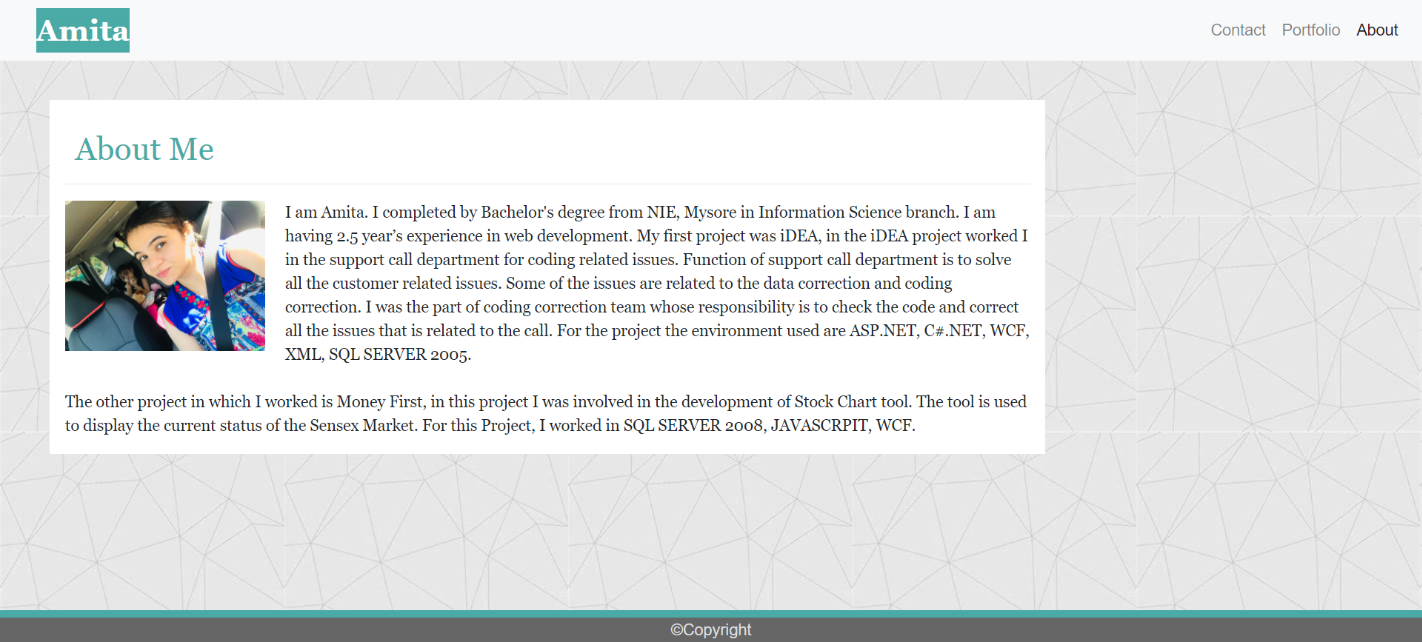
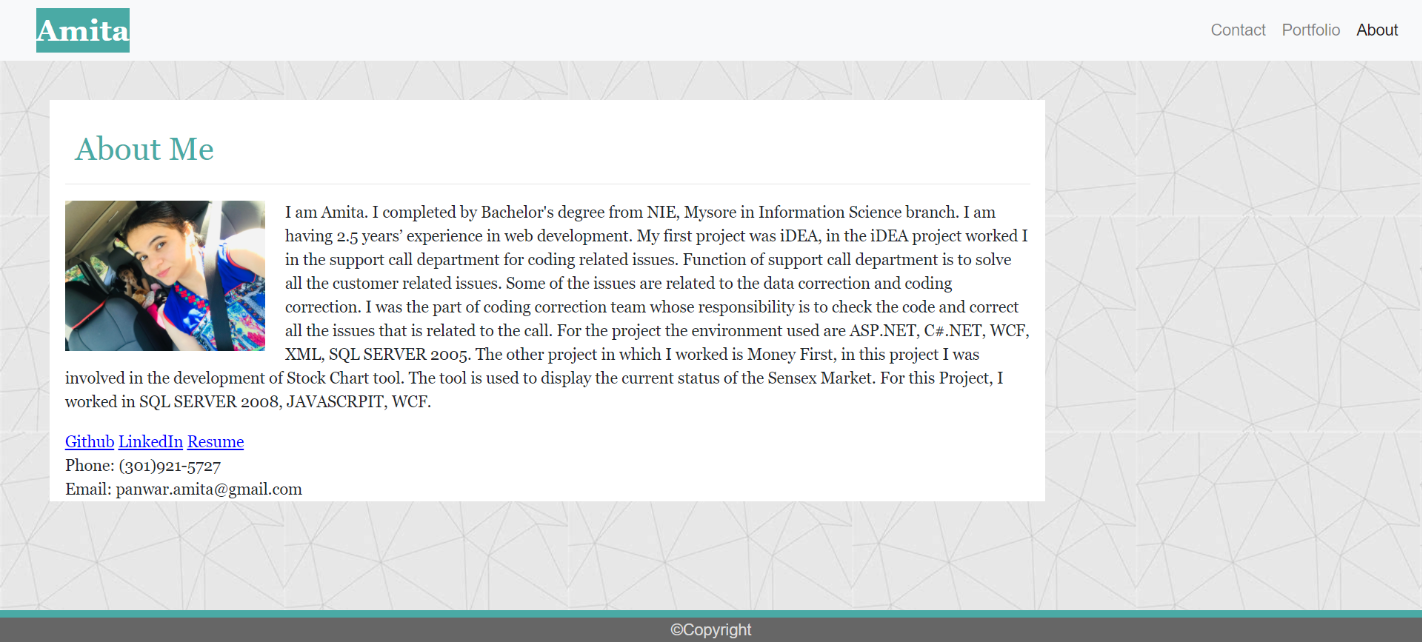
updated the resume

Changed region(s): [[0.0309, 0.5296, 0.7426, 0.7788]]

diff --git a/index.html b/index.html
@@ -64,20 +64,10 @@
                 <!--introduction to the person-->
                 <img src="asset/images/profile_pic.jpg" class="Profile_pic" alt="Profile photo">
                 <p>
-                    I am Amita. I completed by Bachelor's degree from NIE, Mysore in Information Science
-                    branch. I am having 2.5 year’s experience in web development. My first project was
-                    iDEA, in the iDEA project worked I in the support call department for coding related
-                    issues. Function of support call department is to solve all the customer related
-                    issues. Some of the issues are related to the data correction and coding correction.
-                    I was the part of coding correction team whose responsibility is to check the code
-                    and correct all the issues that is related to the call. For the project the
-                    environment used are ASP.NET, C#.NET, WCF, XML, SQL SERVER 2005.
-                    <br>
-                    <br>
-                    The other project in which I worked is Money First, in this project I
-                    was involved in the development of Stock Chart tool. The tool is used to display the
-                    current status of the Sensex Market. For this Project, I worked in SQL SERVER 2008,
-                    JAVASCRPIT, WCF.
+                    I am Amita. I completed by Bachelor's degree from NIE, Mysore in Information Science branch. I am having 2.5 years’ experience in web development. My first project was iDEA, in the iDEA project worked I in the support call department for coding related issues. Function of support call department is to solve all the customer related issues. Some of the issues are related to the data correction and coding correction. I was the part of coding correction team whose responsibility is to check the code and correct all the issues that is related to the call. For the project the environment used are ASP.NET, C#.NET, WCF, XML, SQL SERVER 2005.
+
+The other project in which I worked is Money First, in this project I was involved in the development of Stock Chart tool. The tool is used to display the current status of the Sensex Market. For this Project, I worked in SQL SERVER 2008, JAVASCRPIT, WCF.
+
                 </p>
             </div>
 

diff --git a/README.md b/README.md
@@ -1,4 +1,4 @@
-# My Portfolio
+# Portfolio
 
 ## Contents
 
@@ -29,4 +29,4 @@ Project is created with:
 ![image](./asset/images/screenshot.png)
 ## Link
 
-[My Portfolio](https://panwaramita.github.io/Amita_Portfolio/)
+[Portfolio](https://panwaramita.github.io/Amita_Portfolio/)
